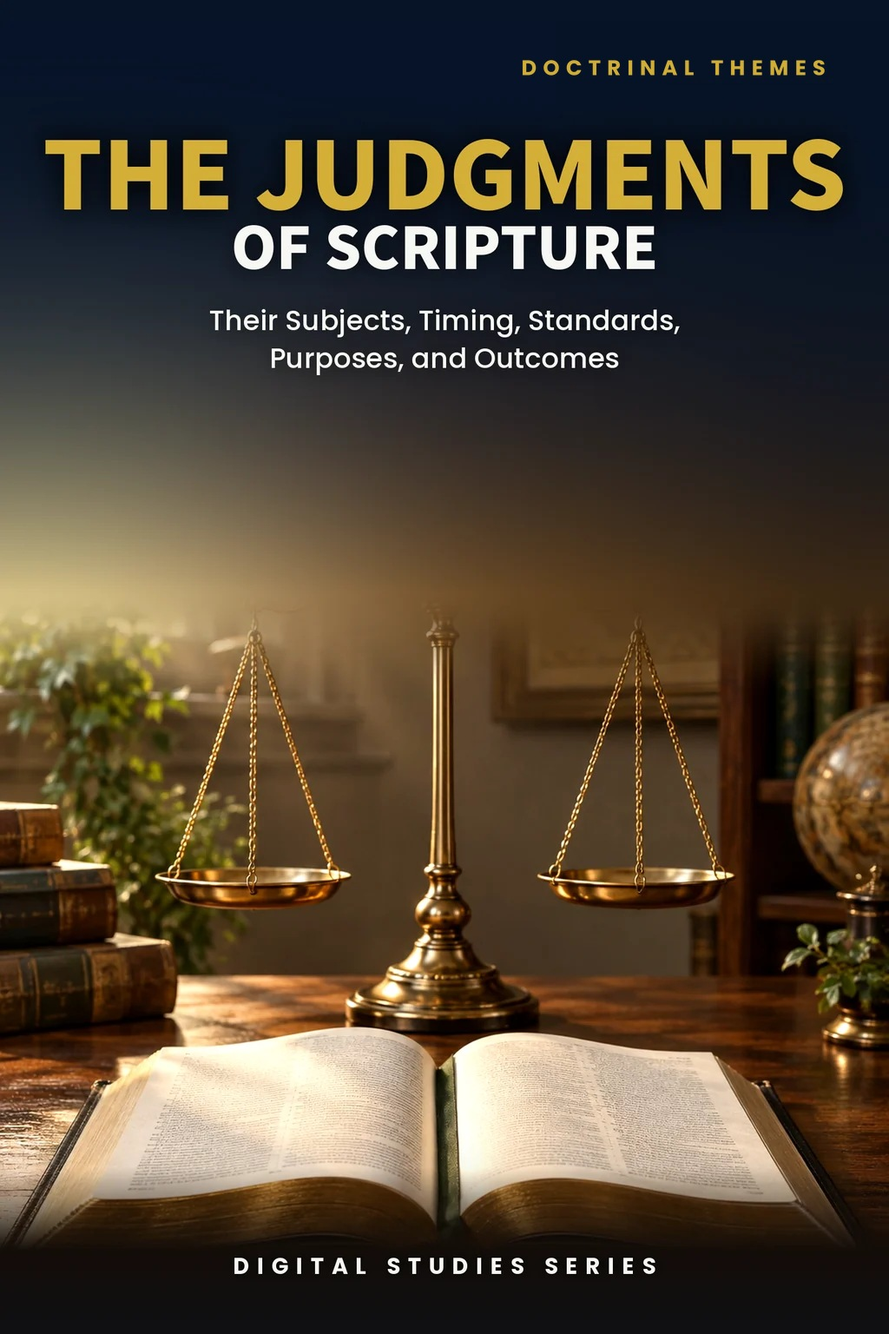
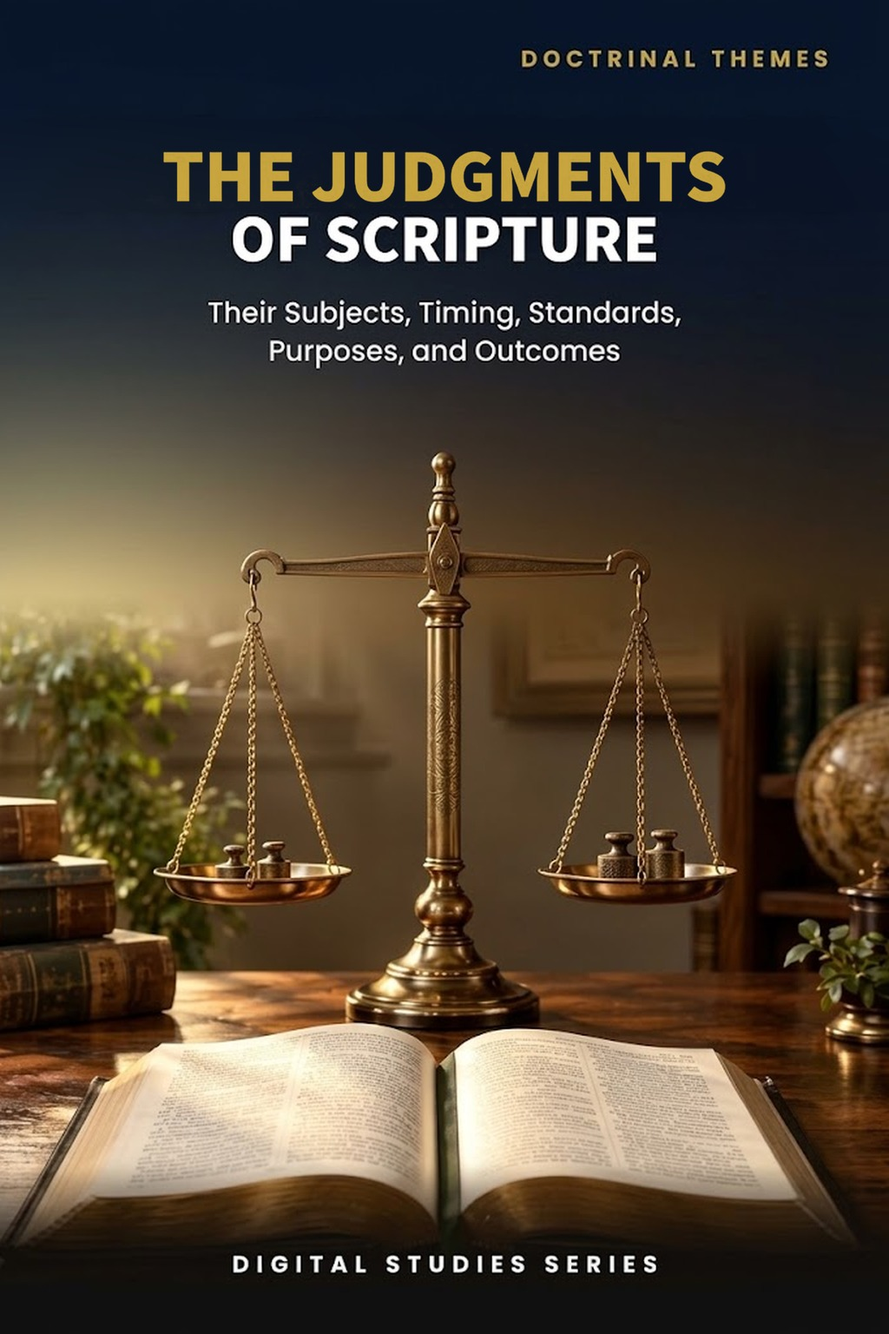
Study 31: Roboto/Standard rebuild, anchoring and Kingdom-mysteries sentences, §17 rewrites, publisher cover with DOCTRINAL THEMES label, previews 2/3/5, 19 pages; PAM audit v1.60
Claude-Session: https://claude.ai/code/session_01TLNFW47XCW6YAMUxScR3v4

diff --git a/study-31-the-judgments-of-scripture.html b/study-31-the-judgments-of-scripture.html
@@ -2,12 +2,12 @@
 <html lang="en"><head><meta charset="utf-8"><meta name="viewport" content="width=device-width,initial-scale=1"><title>The Judgments of Scripture | Zay-Marie Press</title><meta name="description" content="Distinguish the major judgments of Scripture by their subjects, timing, standards, purposes, and outcomes."><link rel="stylesheet" href="styles.css?v=20260928-8"><link rel="icon" type="image/png" href="assets/zay-marie-press-favicon.png"><style>
 .study-detail-page{background:#fff;color:#252525}.detail-hero{background:linear-gradient(135deg,#f8f5ec,#e3ece2);padding:58px 0}.detail-hero-grid{display:grid;grid-template-columns:minmax(250px,.72fr) minmax(0,1.28fr);gap:58px;align-items:center}.detail-cover{max-width:390px;margin:auto}.detail-cover img{display:block;width:100%;height:auto;box-shadow:0 14px 36px rgba(8,45,69,.18)}.detail-hero h1{font-size:clamp(2.7rem,5vw,4.7rem);line-height:1.02;margin:8px 0 10px;color:#143823}.detail-subtitle{font-family:Georgia,serif;font-size:1.35rem;font-weight:700;color:#082d45;margin:0 0 7px}.detail-kicker{font-family:Georgia,serif;font-style:italic;font-size:1.05rem;color:#4a4a44;margin:0 0 22px}.detail-copy{font-size:1.08rem;line-height:1.65;max-width:760px}.detail-buyline{display:flex;align-items:center;gap:18px;flex-wrap:wrap;margin-top:25px}.detail-price{font-family:Georgia,serif;font-size:2rem;font-weight:700;color:#143823}.detail-format,.preview-card .page-no{font-family:Arial,sans-serif;font-size:.76rem;font-weight:700;letter-spacing:.1em;text-transform:uppercase;color:#176b3a}.detail-button{display:inline-block;background:#176b3a;color:#fff;padding:13px 22px;font-family:Arial,sans-serif;font-size:.8rem;font-weight:700;letter-spacing:.07em;text-transform:uppercase}.detail-button.pending{opacity:.72;cursor:default}.detail-section{padding:66px 0}.detail-section.soft{background:#f6f7f2}.detail-section.cream{background:#faf8f2}.detail-section h2{color:#143823;margin:6px 0 18px;font-size:clamp(2rem,3.4vw,3rem)}.detail-section .lead{max-width:920px;font-size:1.1rem;line-height:1.62}.study-distinction{max-width:920px;margin-top:28px;margin-bottom:28px;padding:26px 28px;background:#fff;border:1px solid #d8d1bf;border-left:4px solid #b8871c}.study-distinction h3{margin:0 0 10px;color:#143823}.study-distinction p{margin:0 0 14px;line-height:1.62}.study-distinction a{font-family:Arial,sans-serif;font-weight:700;color:#176b3a;text-decoration:none}.study-points{display:grid;grid-template-columns:repeat(3,1fr);gap:18px;margin-top:28px;margin-bottom:28px}.study-point,.scripture-card,.preview-card,.include-item{background:#fff;border:1px solid var(--line);text-align:left}.study-point{border-top:3px solid #176b3a;padding:22px}.study-point h3{color:#143823;margin:0 0 8px;font-size:1.2rem}.study-point p,.scripture-card p,.preview-card p,.include-item p{margin:0;line-height:1.55}.scripture-grid{display:grid;grid-template-columns:repeat(4,1fr);gap:14px;margin-top:24px;margin-bottom:24px}.scripture-card{padding:22px 20px;color:#143823}.scripture-card h3{margin:0 0 9px;font-family:Georgia,serif;font-size:1rem;line-height:1.35}.scripture-card p{font-size:.94rem;color:#45453f}.excerpt{max-width:900px;margin:28px auto;border-left:4px solid #b8871c;padding:10px 0 10px 28px}.excerpt blockquote{font-family:Georgia,serif;font-size:clamp(1.45rem,2.5vw,2rem);line-height:1.45;color:#143823;margin:0 0 16px}.excerpt p{line-height:1.6;margin:0}.preview-grid{display:grid;grid-template-columns:repeat(2,1fr);gap:20px;margin-top:28px;margin-bottom:28px}.preview-card{padding:18px;min-height:210px;box-shadow:0 7px 20px rgba(20,40,25,.05)}.preview-image-link{display:block;margin:0 0 18px}.preview-image-link img{display:block;width:100%;height:auto;border:1px solid #d8d1bf;box-shadow:0 8px 22px rgba(20,40,25,.1);transition:transform .18s ease,box-shadow .18s ease}.preview-image-link:hover img{transform:translateY(-2px);box-shadow:0 11px 28px rgba(20,40,25,.16)}.preview-card h3{color:#143823;margin:8px 0 10px}.preview-instruction{margin:10px 0 0;font-family:Arial,sans-serif;font-size:.78rem;letter-spacing:.04em;color:#5b5b55}.includes-grid{display:grid;grid-template-columns:repeat(4,1fr);gap:14px;margin-top:26px}.include-item{padding:22px 20px;color:#143823}.include-item h3{margin:0 0 9px;font-family:Arial,sans-serif;font-size:.86rem;line-height:1.35;letter-spacing:.02em}.include-item p{font-size:.94rem;color:#45453f}.final-buy{background:#082d45;color:#fff;border-top:4px solid #b8871c;padding:42px 48px;display:grid;grid-template-columns:1fr auto;gap:36px;align-items:center}.final-buy .eyebrow,.final-buy h2,.final-buy .detail-price{color:#fff}.final-buy h2{margin:7px 0 6px}.final-buy p{margin:0}.final-offer{text-align:center}.back-link{display:inline-block;margin-top:18px;color:#143823;font-family:Arial,sans-serif;font-weight:700;text-decoration:none}.preview-lightbox{position:fixed;inset:0;z-index:10000;display:none;align-items:flex-start;justify-content:center;background:rgba(8,22,16,.88);padding:24px;overflow:auto}.preview-lightbox.open{display:flex}.preview-lightbox img{display:block;width:auto;height:auto;max-width:none;box-shadow:0 18px 55px rgba(0,0,0,.4);background:#fff}.preview-lightbox-close{position:fixed;top:18px;right:24px;z-index:10001;width:46px;height:46px;border:1px solid rgba(255,255,255,.65);border-radius:50%;background:rgba(0,0,0,.55);color:#fff;font:32px/1 Arial,sans-serif;cursor:pointer}@media(max-width:900px){.detail-hero-grid{grid-template-columns:1fr;gap:34px}.detail-cover{max-width:330px}.study-points{grid-template-columns:repeat(2,1fr)}.scripture-grid,.includes-grid{grid-template-columns:repeat(2,1fr)}.preview-grid,.final-buy{grid-template-columns:1fr}.final-offer{text-align:left}}@media(max-width:560px){.detail-hero{padding:42px 0}.detail-section{padding:50px 0}.study-points,.scripture-grid,.includes-grid{grid-template-columns:1fr}.final-buy{padding:32px 24px}.detail-buyline{align-items:flex-start;flex-direction:column;gap:8px}.preview-lightbox{padding:58px 10px 24px}.preview-lightbox img{width:100%;max-width:100%;height:auto}}</style></head><body class="study-detail-page">
 <header class="site-header"><div class="wrap nav"><a class="logo" href="index.html" aria-label="Zay-Marie Press home"><img src="assets/zay-marie-press-logo-hq.png" alt="Zay-Marie Press" width="420" height="238"></a><button class="menu-toggle" type="button" aria-expanded="false" aria-controls="primary-nav">MENU</button><nav aria-label="Primary navigation" class="primary-nav" id="primary-nav"><a href="index.html">HOME</a><a href="books.html">BOOKS</a><a href="series.html">SERIES</a><a class="active" aria-current="page" href="digital-studies.html">DIGITAL STUDIES</a><a href="biblical-hermeneutics-course.html">COURSE</a><a href="about.html">ABOUT</a><a href="resources.html">RESOURCES</a><a href="contact.html">CONTACT</a></nav></div></header><main>
-<section class="detail-hero"><div class="wrap detail-hero-grid"><div class="detail-cover"><img src="assets/study-31-cover.webp" alt="The Judgments of Scripture cover"></div><div><div class="eyebrow">BIBLICAL DOCTRINE · DIGITAL STUDY</div><h1>The Judgments of Scripture</h1><p class="detail-subtitle">Their Subjects, Timing, Standards, Purposes, and Outcomes</p><p class="detail-kicker">A comparative biblical study designed to keep distinct judgments distinct</p><p class="detail-copy">Scripture presents many acts and occasions of divine judgment, but it does not combine them into one undifferentiated event. This study supplies a clear framework for identifying who or what is judged, when the judgment occurs, the governing standard, its purpose, and its outcome.</p><p class="detail-copy">Compare historical judgments, the Cross, believer self-judgment and discipline, the Judgment Seat of Christ, Israel’s prophetic accountability, the nations, angels, Kingdom judgments, and the Great White Throne without transferring features from one passage to another.</p><div class="detail-buyline"><span class="detail-price">$5.99</span><span class="detail-format">Digital PDF · 17 Pages</span><span class="detail-button pending" aria-disabled="true">Checkout Coming Soon</span></div></div></div></section>
+<section class="detail-hero"><div class="wrap detail-hero-grid"><div class="detail-cover"><picture><source srcset="assets/study-31-cover.webp" type="image/webp"><img src="assets/study-31-cover.jpg" alt="The Judgments of Scripture - Study 31 cover"></picture></div><div><div class="eyebrow">STUDY 31 · DIGITAL STUDY</div><h1>The Judgments of Scripture</h1><p class="detail-subtitle">Their Subjects, Timing, Standards, Purposes, and Outcomes</p><p class="detail-kicker">A comparative biblical study designed to keep distinct judgments distinct</p><p class="detail-copy">Scripture presents many acts and occasions of divine judgment, but it does not combine them into one undifferentiated event. This study supplies a clear framework for identifying who or what is judged, when the judgment occurs, the governing standard, its purpose, and its outcome.</p><p class="detail-copy">Compare historical judgments, the Cross, believer self-judgment and discipline, the Judgment Seat of Christ, Israel’s prophetic accountability, the nations, angels, Kingdom judgments, and the Great White Throne without transferring features from one passage to another.</p><div class="detail-buyline"><span class="detail-price">$5.99</span><span class="detail-format">Digital PDF · 19 Pages</span><span class="detail-button pending" aria-disabled="true">Checkout Coming Soon</span></div></div></div></section>
 <section class="detail-section"><div class="wrap"><div class="eyebrow">ABOUT THIS STUDY</div><h2>Why Must the Judgments Be Distinguished?</h2><p class="lead">The Judge is always righteous, but Scripture assigns different judgments to different subjects, times, standards, purposes, and outcomes. A judgment of living nations at the return of the Son of Man is not the final judgment of the dead after the thousand years. An evaluation for reward or loss is not a trial to determine whether Christ’s finished work was sufficient.</p><p class="lead">This study organizes the major judgment complexes of Scripture so readers can recognize genuine similarities without collapsing distinct events, audiences, or divine purposes.</p><p class="lead">This is not a study of crowns and rewards in their own passages, which Study 33 examines directly, nor of Paul’s own Day-of-Christ language, which Study 8 defines on its own terms, nor of the believer’s security under grace, which Study 46 argues from a different set of texts. Its task is broader: to classify every major judgment complex in Scripture by subject, time, standard, and outcome, so that no two of them are collapsed into a single undifferentiated “judgment.”</p><div class="study-distinction"><h3>How These Studies Relate</h3><p>Study 31 classifies Scripture’s judgments by their subjects, timing, standards, purposes, and outcomes.</p><p><a href="study-33-the-crowns-of-scripture.html">Study 33 — The Crowns of Scripture</a> Examine crowns and rewards in their own passages; this helps locate reward language within the right evaluation instead of treating every crown as salvation or condemnation.</p><p><a href="study-08-the-day-of-christ.html">Study 8 — The Day of Christ</a> Read Paul’s Day-of-Christ expressions before attaching an entire judgment scheme to them; the distinction keeps explicit wording and related future teaching in proper relation.</p><p><a href="study-46-secure-in-christ.html">Study 46 — Secure in Christ</a> See how the distinction between a lost reward and a lost standing, drawn here from 1 Corinthians 3:11–15 and 2 Timothy 2:12, secures the believer’s standing while keeping reward in its own place.</p><p class="connection-guide-link"><a href="study-connections.html#study-31">Explore the full connection guide for Study 31 →</a></p></div><div class="cross-strand-note"><p class="cross-strand-label">FROM THE PARABLES STRAND</p><p>The Sheep and the Goats narrates one of the judgments this study classifies — read it to see that judgment in its own setting.</p><p><a href="parable-31-the-sheep-and-the-goats.html">The Sheep and the Goats</a></p></div></div></section>
-<section class="detail-section soft"><div class="wrap"><div class="eyebrow">WHAT YOU’LL STUDY</div><h2>Use Five Questions to Identify Every Judgment</h2><div class="study-points"><div class="study-point"><h3>Subject</h3><p>Identify who or what is being judged before drawing conclusions from the passage.</p></div><div class="study-point"><h3>Timing</h3><p>Place each judgment within its stated historical, prophetic, or Mystery setting.</p></div><div class="study-point"><h3>Standard</h3><p>Determine the revealed measure by which the judgment is administered.</p></div><div class="study-point"><h3>Purpose</h3><p>Ask what God accomplishes through the judgment in its own context.</p></div><div class="study-point"><h3>Outcome</h3><p>Trace the sentence, reward, loss, discipline, exclusion, or final state that follows.</p></div><div class="study-point"><h3>Programmatic Setting</h3><p>Keep Prophecy and Mystery distinct wherever Scripture assigns different subjects and purposes.</p></div></div></div></section>
+<section class="detail-section soft"><div class="wrap"><div class="eyebrow">WHAT YOU’LL STUDY</div><h2>Use Five Questions to Identify Every Judgment</h2><div class="study-points"><div class="study-point"><h3>Subject</h3><p>Identify who or what is being judged before drawing conclusions from the passage.</p></div><div class="study-point"><h3>Timing</h3><p>Place each judgment within its stated historical, prophetic, or Mystery setting.</p></div><div class="study-point"><h3>Standard</h3><p>Determine the revealed measure by which the judgment is administered.</p></div><div class="study-point"><h3>Purpose</h3><p>Ask what God accomplishes through the judgment in its own context.</p></div><div class="study-point"><h3>Outcome</h3><p>Trace the sentence, reward, loss, discipline, exclusion, or final state that follows.</p></div><div class="study-point"><h3>Programmatic Setting</h3><p>Place each judgment passage within Prophecy or Mystery by the subject, timing, and standard the text states.</p></div></div></div></section>
 <section class="detail-section cream"><div class="wrap"><div class="eyebrow">KEY SCRIPTURES</div><h2>Compare the Major Judgment Passages</h2><div class="scripture-grid"><div class="scripture-card"><h3>Romans 3:21–26</h3><p>God’s righteousness displayed at the Cross, where sin was judged in Christ.</p></div><div class="scripture-card"><h3>1 Corinthians 3:10–15</h3><p>The believer’s work tested for reward or loss while salvation remains secure.</p></div><div class="scripture-card"><h3>2 Corinthians 5:10</h3><p>The Body’s future appearance before the Judgment Seat of Christ.</p></div><div class="scripture-card"><h3>Matthew 25:31–46</h3><p>Living nations judged when the Son of Man comes in glory.</p></div><div class="scripture-card"><h3>Daniel 7 and 12</h3><p>Prophetic judgment, resurrection, and Kingdom accountability.</p></div><div class="scripture-card"><h3>1 Corinthians 6:2–3</h3><p>The future judgment of the world and angels.</p></div><div class="scripture-card"><h3>Revelation 20:11–15</h3><p>The Great White Throne after the thousand years.</p></div><div class="scripture-card"><h3>Romans 8:1</h3><p>No condemnation for those who are in Christ Jesus.</p></div></div></div></section>
 <section class="detail-section"><div class="wrap"><div class="eyebrow">FROM THE STUDY</div><h2>Similar Language Does Not Establish an Identical Judgment</h2><div class="excerpt"><blockquote>“Never identify a judgment by one shared word alone.”</blockquote><p>Fire, books, works, appearing, reward, and judgment may occur in different passages without making those passages one event. The immediate context and programmatic setting establish whose accountability is in view.</p></div></div></section>
-<section class="detail-section soft"><div class="wrap"><div class="eyebrow">A LOOK INSIDE</div><h2>Preview the Study Before You Purchase</h2><p class="preview-instruction">Click any page to enlarge it for reading.</p><div class="preview-grid"><div class="preview-card"><a class="preview-image-link" data-preview-lightbox href="assets/study-31-page-2.jpg"><img src="assets/study-31-page-2.jpg" alt="Study 31 page 2 learning outcomes"></a><div class="page-no">Page 2</div><h3>Learning Outcomes and Study Goal</h3><p>Begin with the competencies needed to classify the major judgments accurately.</p></div><div class="preview-card"><a class="preview-image-link" data-preview-lightbox href="assets/study-31-page-4.jpg"><img src="assets/study-31-page-4.jpg" alt="Study 31 page 4 outline and introduction"></a><div class="page-no">Page 4</div><h3>Judgment Is Not One Event</h3><p>See why subject, timing, standard, purpose, and outcome must govern interpretation.</p></div><div class="preview-card"><a class="preview-image-link" data-preview-lightbox href="assets/study-31-page-8.jpg"><img src="assets/study-31-page-8.jpg" alt="Study 31 page 8 Judgment Seat of Christ"></a><div class="page-no">Page 8</div><h3>The Judgment Seat of Christ</h3><p>Distinguish evaluation for service and reward from condemnation or justification.</p></div><div class="preview-card"><a class="preview-image-link" data-preview-lightbox href="assets/study-31-page-13.jpg"><img src="assets/study-31-page-13.jpg" alt="Study 31 page 13 comparative synthesis"></a><div class="page-no">Page 13</div><h3>Comparative Synthesis</h3><p>Compare the subjects, timing, standards, purposes, and outcomes across the major judgments.</p></div></div></div></section>
-<section class="detail-section"><div class="wrap"><div class="eyebrow">WHAT’S INCLUDED</div><h2>A Focused Study Built for<br>Understanding and Teaching</h2><div class="includes-grid"><div class="include-item"><h3>17-Page Biblical Study</h3><p>A detailed comparative treatment without collapsing distinct judgment passages.</p></div><div class="include-item"><h3>Ten Teaching Sections</h3><p>Move from historical judgment and the Cross through final judgment.</p></div><div class="include-item"><h3>Five-Question Framework</h3><p>Identify subject, timing, standard, purpose, and outcome in every passage.</p></div><div class="include-item"><h3>Comparative Tables</h3><p>Review the major judgments through clear, high-contrast reference charts.</p></div><div class="include-item"><h3>Scripture-Tracing Exercise</h3><p>Classify central judgment passages using the same diagnostic questions.</p></div><div class="include-item"><h3>Review Questions</h3><p>Test both biblical knowledge and the ability to preserve distinctions.</p></div><div class="include-item"><h3>Teaching Outline</h3><p>A ready framework for presenting the doctrine clearly and responsibly.</p></div><div class="include-item"><h3>Guided Further Study</h3><p>Instructions and grouped passages help readers extend the study independently.</p></div></div></div></section>
-<section class="detail-section cream"><div class="wrap"><div class="final-buy"><div><div class="eyebrow">BIBLICAL DOCTRINE · DIGITAL STUDY</div><h2>The Judgments of Scripture</h2><p>Digital PDF · 17 Pages · For personal use</p></div><div class="final-offer"><div class="detail-price">$5.99</div><span class="detail-button pending" aria-disabled="true">Checkout Coming Soon</span></div></div><a class="back-link" href="digital-studies.html">← Back to All Digital Studies</a></div></section><section class="study-method-course-bridge"><div class="wrap"><div class="study-method-course-panel"><div><div class="eyebrow">BUILD THE INTERPRETIVE METHOD</div><h2>Want More Than a Focused Study?</h2><p>Digital Studies examine particular biblical subjects and difficult passages. The 40-lesson Biblical Hermeneutics course teaches a complete, repeatable method for establishing meaning in context, determining proper assignment, and making responsible application.</p></div><a class="btn btn-primary" href="biblical-hermeneutics-course.html">BIBLICAL HERMENEUTICS COURSE</a></div></div></section></main>
+<section class="detail-section soft"><div class="wrap"><div class="eyebrow">A LOOK INSIDE</div><h2>Preview the Study Before You Purchase</h2><p class="preview-instruction">Click any page to enlarge it for reading.</p><div class="preview-grid"><div class="preview-card"><a class="preview-image-link" data-preview-lightbox href="assets/study-31-page-2.jpg"><img src="assets/study-31-page-2.jpg" alt="Study 31 interior preview — page 2, table of contents"></a><div class="page-no">Page 2</div><h3>Table of Contents</h3><p>See the full structure of the study, from the introduction through the final synthesis.</p></div><div class="preview-card"><a class="preview-image-link" data-preview-lightbox href="assets/study-31-page-3.jpg"><img src="assets/study-31-page-3.jpg" alt="Study 31 interior preview — page 3, what you will learn and study outline"></a><div class="page-no">Page 3</div><h3>What You Will Learn</h3><p>Begin with the outcomes you will work toward and the passages the study traces, from the Cross to the Great White Throne.</p></div><div class="preview-card"><a class="preview-image-link" data-preview-lightbox href="assets/study-31-page-5.jpg"><img src="assets/study-31-page-5.jpg" alt="Study 31 interior preview — page 5, five controlling questions and classification table"></a><div class="page-no">Page 5</div><h3>The Five Questions</h3><p>See the five controlling questions and the classification table the study applies to every judgment passage.</p></div></div></div></section>
+<section class="detail-section"><div class="wrap"><div class="eyebrow">WHAT’S INCLUDED</div><h2>A Focused Study Built for<br>Understanding and Teaching</h2><div class="includes-grid"><div class="include-item"><h3>19-Page Biblical Study</h3><p>A detailed comparative treatment without collapsing distinct judgment passages.</p></div><div class="include-item"><h3>Ten Teaching Sections</h3><p>Move from historical judgment and the Cross through final judgment.</p></div><div class="include-item"><h3>Five-Question Framework</h3><p>Identify subject, timing, standard, purpose, and outcome in every passage.</p></div><div class="include-item"><h3>Comparative Tables</h3><p>Review the major judgments through clear, high-contrast reference charts.</p></div><div class="include-item"><h3>Scripture-Tracing Exercise</h3><p>Classify central judgment passages using the same diagnostic questions.</p></div><div class="include-item"><h3>Review Questions</h3><p>Test both biblical knowledge and the ability to preserve distinctions.</p></div><div class="include-item"><h3>Teaching Outline</h3><p>A ready framework for presenting the doctrine clearly and responsibly.</p></div><div class="include-item"><h3>Guided Further Study</h3><p>Instructions and grouped passages help readers extend the study independently.</p></div></div></div></section>
+<section class="detail-section cream"><div class="wrap"><div class="final-buy"><div><div class="eyebrow">STUDY 31 · DIGITAL STUDY</div><h2>The Judgments of Scripture</h2><p>Digital PDF · 19 Pages · For personal use</p></div><div class="final-offer"><div class="detail-price">$5.99</div><span class="detail-button pending" aria-disabled="true">Checkout Coming Soon</span></div></div><a class="back-link" href="digital-studies.html">← Back to All Digital Studies</a></div></section><section class="study-method-course-bridge"><div class="wrap"><div class="study-method-course-panel"><div><div class="eyebrow">BUILD THE INTERPRETIVE METHOD</div><h2>Want More Than a Focused Study?</h2><p>Digital Studies examine particular biblical subjects and difficult passages. The 40-lesson Biblical Hermeneutics course teaches a complete, repeatable method for establishing meaning in context, determining proper assignment, and making responsible application.</p></div><a class="btn btn-primary" href="biblical-hermeneutics-course.html">BIBLICAL HERMENEUTICS COURSE</a></div></div></section></main>
 <div class="preview-lightbox" id="preview-lightbox" role="dialog" aria-modal="true" aria-label="Expanded study preview"><button class="preview-lightbox-close" type="button" aria-label="Close preview">×</button><img id="preview-lightbox-image" alt=""></div><footer class="site-footer"><div class="wrap footer-grid"><div class="footer-about"><h3>Zay-Marie Press</h3><p class="footer-tagline"><em>Where the Bible Means What It Says.</em></p><p>Zay-Marie Press is a Christian theological publisher dedicated to producing doctrinally precise, carefully structured biblical resources that equip pastors, teachers, and serious students with clarity, depth, and Scripture-anchored truth.</p><p><a href="https://zaymariepress.com">zaymariepress.com</a><br><a href="mailto:info@zaymariepress.com">info@zaymariepress.com</a></p></div><div class="footer-column"><h3>Explore</h3><div class="footer-links-stacked"><a href="books.html">Books</a><br><a href="series.html">Series</a><br><a href="biblical-hermeneutics-course.html">Course</a><br><a href="digital-studies.html">Digital Studies</a><br><a href="resources.html">Resources</a><br><a href="bible-book-summaries.html">Bible Book Summaries</a><br><a href="doctrinal-packets.html">Doctrinal Packets</a><br><a href="historical-drift.html">Historical Drift</a><br><a href="about.html">About</a><br><a href="contact.html">Contact</a></div></div><div class="footer-column"><h3>Reader Support</h3><div class="footer-links-stacked"><a href="reader-support.html#faq">FAQ</a><br><a href="reader-support.html#shipping-returns">Shipping &amp; Returns</a><br><a href="reader-support.html#digital-downloads">Digital Downloads</a><br><a href="reader-support.html#contact-support">Contact Support</a></div></div><div class="footer-column"><h3>Acts Overlap</h3><p><strong>Acts Overlap Theology Series</strong></p><p><em>Two Distinct Streams. One Overlap.</em></p><p><a href="series.html">Series Overview</a></p></div></div><div class="wrap footer-bottom">© 2026 Zay-Marie Press. All rights reserved.</div></footer><script src="site.js"></script><script>const lightbox=document.getElementById('preview-lightbox'),lightboxImage=document.getElementById('preview-lightbox-image'),closeLightbox=()=>{lightbox.classList.remove('open');lightboxImage.src='';};document.querySelectorAll('[data-preview-lightbox]').forEach(link=>link.addEventListener('click',event=>{event.preventDefault();lightboxImage.src=link.href;lightboxImage.alt=link.querySelector('img').alt;lightbox.classList.add('open');}));document.querySelector('.preview-lightbox-close').addEventListener('click',closeLightbox);lightbox.addEventListener('click',event=>{if(event.target===lightbox)closeLightbox();});document.addEventListener('keydown',event=>{if(event.key==='Escape')closeLightbox();});</script></body></html>

diff --git a/site.js b/site.js
@@ -62,7 +62,7 @@ const resourceModal=document.querySelector('#resource-modal'), resourceModalTitl
 if(resourceModal&&resourceModalTriggers.length){const closeResourceModal=()=>{resourceModal.hidden=true;document.body.classList.remove('resource-modal-open');lastResourceTrigger?.focus();};resourceModalTriggers.forEach(trigger=>trigger.addEventListener('click',()=>{lastResourceTrigger=trigger;if(resourceModalTitle)resourceModalTitle.textContent=trigger.dataset.title||'Resource';if(resourceModalDescription)resourceModalDescription.textContent=trigger.dataset.description||'';if(resourceModalLink){resourceModalLink.href=trigger.dataset.href||'#';resourceModalLink.textContent=trigger.dataset.linkText||'OPEN RESOURCE';}resourceModal.hidden=false;document.body.classList.add('resource-modal-open');resourceModalClose?.focus();}));resourceModalClose?.addEventListener('click',closeResourceModal);resourceModal.addEventListener('click',e=>{if(e.target===resourceModal)closeResourceModal();});document.addEventListener('keydown',e=>{if(e.key==='Escape'&&!resourceModal.hidden)closeResourceModal();});}
 
 /* Display the verified final-PDF page count at the primary purchase decision point. */
-const digitalStudyPageCounts={1:14,2:14,3:18,4:18,5:16,6:16,7:16,8:16,9:16,10:23,11:15,12:14,13:18,14:15,15:16,16:16,17:18,18:18,19:16,20:16,21:16,22:16,23:16,24:16,25:17,26:18,27:16,28:16,29:16,30:17,31:17,32:14,33:15,34:16,35:15,36:15,37:15,38:16,39:16,40:15,41:15,42:15,43:17,44:15,45:15,46:15,47:16,48:15,49:14,50:14,51:15,52:15,53:15,54:15,55:16,56:16,61:16,62:16,63:16,64:16,65:16,66:16,67:16,68:16,69:16,70:16,71:16};
+const digitalStudyPageCounts={1:14,2:14,3:18,4:18,5:16,6:16,7:16,8:16,9:16,10:23,11:15,12:14,13:18,14:15,15:16,16:16,17:18,18:18,19:16,20:16,21:16,22:16,23:16,24:16,25:17,26:18,27:16,28:16,29:16,30:17,31:19,32:14,33:15,34:16,35:15,36:15,37:15,38:16,39:16,40:15,41:15,42:15,43:17,44:15,45:15,46:15,47:16,48:15,49:14,50:14,51:15,52:15,53:15,54:15,55:16,56:16,61:16,62:16,63:16,64:16,65:16,66:16,67:16,68:16,69:16,70:16,71:16};
 const digitalStudyMatch=window.location.pathname.match(/\/study-(\d+)-/i);
 const digitalStudyFormat=document.querySelector('.detail-hero .detail-format');
 if(digitalStudyMatch&&digitalStudyFormat){const studyNumber=Number(digitalStudyMatch[1]),pageCount=digitalStudyPageCounts[studyNumber];if(pageCount)digitalStudyFormat.textContent=`Digital PDF · ${pageCount} Pages`;}

diff --git a/controlling-documents/Digital_Studies_PAM_Audit_v1.60.md b/controlling-documents/Digital_Studies_PAM_Audit_v1.60.md
@@ -289,3 +289,4 @@ Study 15 PDF not yet supplied. Typography: none of Studies 2, 3, 6, 8 is in EB G
 - v1.57 (2026-10-01): Study 28 (The Warning of Hebrews 6:4–6) read in full against the PAM and Framework from the publisher's DOCX (about 13 interior pages): no conflicts after two approved additions. (1) The PAM assigns no program to Hebrews as a book (PAM Rule 1), so the Study 24 anchoring sentence was added after the Introduction's Hebrews paragraph, word for word: "The Framework does not assign Hebrews as a book; this reading rests on the letter's own audience markers and on the Framework's ruling that the New Covenant it quotes (Jeremiah 31:31–34) belongs to the house of Israel and the house of Judah, the Body benefiting from Christ's blood without being the covenant party." (2) The Framework lists "heavenly calling" as a Mystery/Body marker while Study 28 reports Hebrews 3:1's own phrase "partakers of a heavenly calling" for the letter's readers; the publisher ruled Option A and the clarifying sentence was added at the end of §1's second paragraph: "'Heavenly calling' (3:1) is Hebrews' own wording, reported here as the letter's phrase; it is not equated with the Body's heavenly calling, which the Framework locates in the Mystery, and the letter ties it to Israel's wilderness history, the promised rest, and the world to come." This matches the Study 69 precedent (Hebrews 12:22–23 read to the letter's Israel-directed readers). The rest was clear (Body begins at Acts 9; Acts 9–28 concurrent; Spirit and signs language placed in Israel's last-days witness; plural baptisms not reduced to the Body's one baptism; the warnings never transferred to the Body; Study 24 pointer). Rebuilt to the Master Standard (Roboto, five boxed callouts with Textual Control as a run-in, Slate Blue tables, TOC first, Study Outline as bullets, 16 pages including cover, exactly 15 interior). One KJV table (Hebrews 6:1–8 with neutral observation notes) added; the 6:9–12 and companion-warnings tables were written but left out to hold 15 pages. What You Will Learn points 2, 9 and 10, the Study Goal, Review Q10 (now points to Study 24 by name) and website "What You'll Study" points 1 and 6 were reworded in process wording (§17). Cover built from the publisher's artwork in the DOCX to the Standard (logo and lettering removed; PASSAGES label; THE WARNING OF / HEBREWS / 6:4–6, the last two lines reduced 25%). Previews: pages 2, 3 and 5. Category: Passages.
 - v1.58 (2026-10-01): Study 29 (One Taken and the Other Left) read in full against the PAM and Framework from the publisher's DOCX (about 11 interior pages): clear, no conflicts. It follows the Framework's "one taken, one left" ruling (Matthew 24 and Luke 17 are not rapture texts but Israel's Tribulation separation, Prophecy Program); the remnant is kept ethnic-covenantal; Matthew 24:31 is not equated with 1 Thessalonians 4; the Body's gathering is kept in the Mystery. The only text change: the Conclusion's "required reading within the Acts Overlap framework" became "fits the Framework's assignment of Matthew 24 and Luke 17 to the Prophecy Program, because it preserves…". Rebuilt to the Master Standard (Roboto, five boxed callouts with Contextual Observation, Synoptic Control and Evidence Control as bold run-ins, Slate Blue tables, TOC first, Roman-numeral Teaching Outline groups as plain headings, 16 pages including cover = 15 interior). Added KJV tables with neutral "what to observe" notes (Matt 24:27, 29–31; Matt 24:37–44; Luke 17:26–37; Matt 13:40–43, 49–50; 1 Thess 4:16–17 with 1 Cor 15:51–52). §17 rewrites: What You Will Learn points 6, 7 and 8, the Study Goal, and Study Outline items 5 and 6; website "What You'll Study" points 1, 5 and 6 matched to them. Cover built from the publisher's artwork in the DOCX (logo and lettering removed; PASSAGES label; same image on PDF and website); the old study-29-cover-v4.webp special case was removed from site.js. Previews: pages 2, 3 and 8 (old pages 6, 9 and 13 removed). Page count 13 to 16. Category: Passages.
 - v1.59 (2026-10-01): Study 30 (Seated With Christ in Heavenly Places) read in full against the PAM and Framework from the publisher's DOCX (about 16 interior pages): clear, no conflicts. Ephesians 1–3 is read as Mystery Program content; the Body's inheritance of the heavenly places and angelic seats is stated as the Framework's identification, and the study keeps present independent jurisdiction and administrative detail as unsupported or qualified; the Judgment Seat is reward evaluation for the Body (Framework); Israel's Prophecy and the Body's Mystery stay distinct (Acts 9–28 concurrent, Prophecy suspended at Acts 28, Mystery continues); 1 Cor 6:2–3 and 2 Tim 2:12 are reported as text. Approved addition (§7, directly after the Framework sentence): "That identification is the Framework's doctrinal position and is not argued here from a single verse. The qualification in this study concerns present jurisdiction and the details of the future administration, not the inheritance itself." The Disputed list ("Governmental installation…") was left intact. Rebuilt to the Master Standard (Roboto, five boxed callouts with Grace Control, Union Control and Time Control as bold run-ins, TOC first, bullet Study Outline, plain-heading Teaching Outline, 17 pages including cover, kept at 17 under the page-count exception rule at the publisher's direction). §17 rewrites: What You Will Learn points 5 and 6 and Study Outline items 4 and 6; website "What You'll Study" points 4, 5 and 6 matched to them. Cover from the publisher's landscape artwork (top 90 px cropped to remove the "Made with AI" badge; art at full width with fades; BODY OF CHRIST label); the old study-30-cover-v2.webp special case was removed from site.js. Previews: pages 2, 3 and 5 (old pages 4, 9 and 12 removed). Page count stays 17. Category: Body of Christ.
+- v1.60 (2026-10-01): Study 31 (The Judgments of Scripture) read in full against the PAM and Framework from the publisher's DOCX (about 17 interior pages in source): clear, no conflicts. It matches the Framework's judgment table (Israel: prophetic accountability + Kingdom entrance; Body: Judgment Seat of Christ, reward evaluation); Acts 28 is "national judicial suspension, not abolition" (Acts Overlap, PAM Rule 4); 1 Cor 11 is Body practice; 1 Cor 6:3 reported as explicit without invented detail; Matthew 24 is Israel's Prophecy setting with no "one taken, one left" claims. The Framework and PAM are silent on Matthew 25:31–46 and Revelation 19–22, so the publisher approved an anchoring sentence (PAM Rule 1), added at the end of the paragraph after Interpretive Control in the Introduction, word for word: "The Framework assigns Israel's prophetic accountability and the Body's Judgment Seat; the placement of Matthew 25 and Revelation 19–22 in this study is an interpretive reading drawn from each passage's own markers, not a PAM assignment." The publisher also approved a clarifying sentence in §8 directly after the "belong to the mysteries of the Kingdom" sentence: "The 'mysteries of the kingdom' (Matthew 13:11) are Kingdom-parable content in Matthew's prophetic setting; they are not the Mystery revealed through Paul." Rebuilt to the Master Standard (Roboto, five boxed callouts: Study Goal, Interpretive Control, Gospel Control, Judgment Seat Control, Chronology Control; Classification Rule, Pastoral Control, Program Control, Evidence Control and Synthesis Rule became bold run-ins; flat one-entry-per-heading TOC; Central Classification Questions moved into §1; Pastoral Control table cleaned; closing Final Synthesis box became a Final Synthesis heading and paragraph; typed numerals removed). §17 rewrites: What You Will Learn points 5–11 and Study Outline items 3, 4, 5, 7 and 9; website "What You'll Study" Programmatic Setting point matched. Length 19 pages including cover (18 interior; ten tables), kept at 19 at the publisher's direction under the page-count exception rule; site.js 31:17 to 31:19. Cover: the publisher's finished cover image used as supplied (DOCTRINAL THEMES label, no badge; trimmed 6 px to 2:3, enlarged to 1600×2400) with "THE JUDGMENTS" reduced 30% at the publisher's direction (gold line rebuilt on the same navy gradient). Hero eyebrow changed from the retired "BIBLICAL DOCTRINE · DIGITAL STUDY" to "STUDY 31 · DIGITAL STUDY". Previews: pages 2, 3 and 5 (old pages 4, 8 and 13 removed). Category: Doctrinal Themes.
